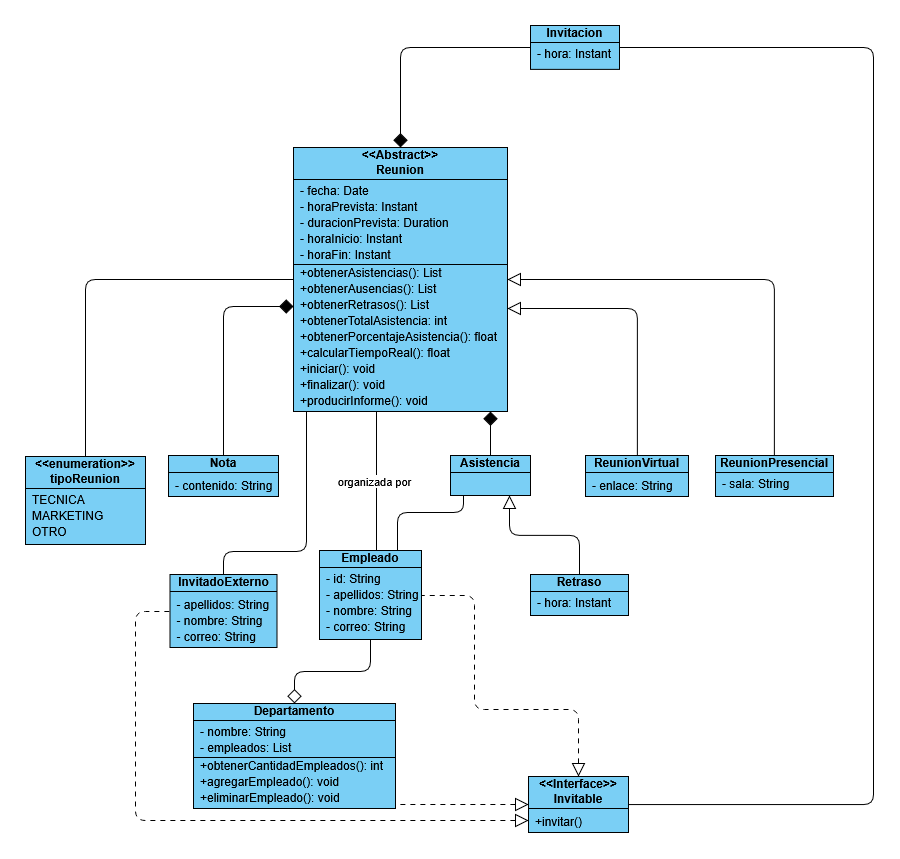
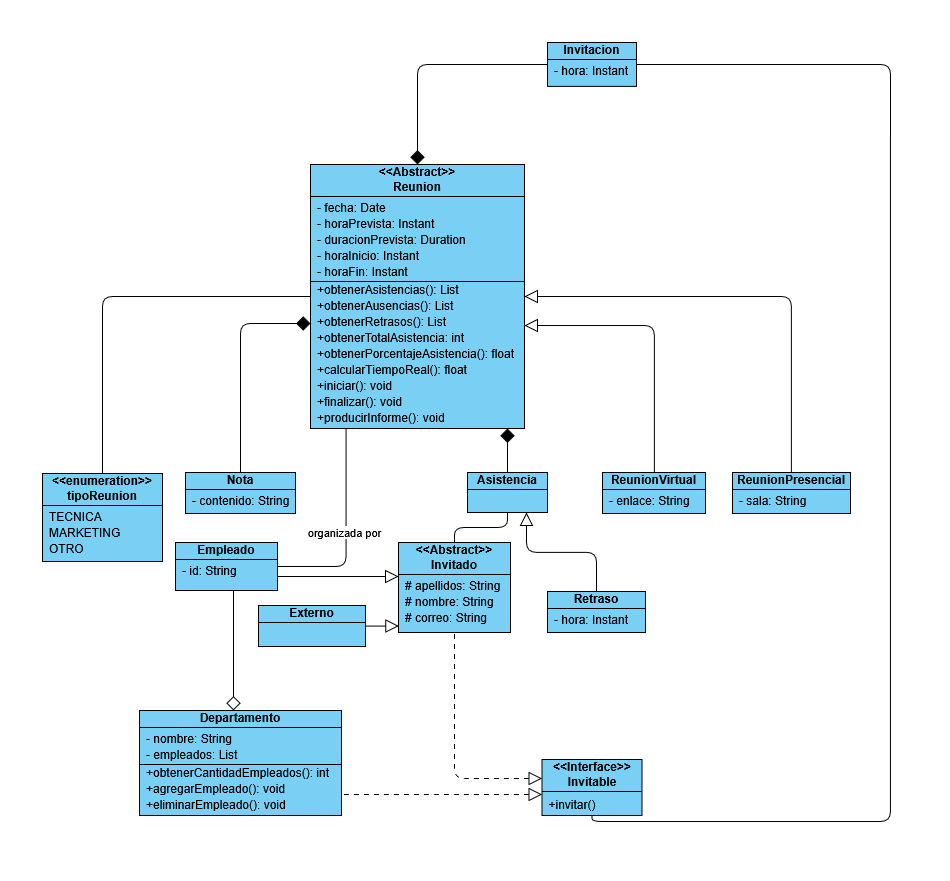
UML actualizado y justificación en README

diff --git a/README.md b/README.md
@@ -5,4 +5,5 @@ Joaquín Enrique Jara Troncoso<br/>
 
 ### Cambios en UML
 A la clase "Reunion" se le añadió el método "producirInforme", ya que el informe debe contener información que ya esta en Reunión, el método tan solo compilaría los datos y los escribirá en un archivo de texto. Además se agregó la clase InvitadoExterno que funciona similar a Empleado pero no esta asociado a ningún departamento.<br/>
-La clase "Departamento" se le agregó una lista para almacenar los empleados que pertenecen a él, además de 2 métodos para agregar y eliminar elementos de esta lista.
+La clase "Departamento" se le agregó una lista para almacenar los empleados que pertenecen a él, además de 2 métodos para agregar y eliminar elementos de esta lista.<br/>
+Tanto como los empleados como los invitados externos pertenecen a una clase abstracta "Invitado" ya que deben compartir la mayoría de atributos y relaciones.